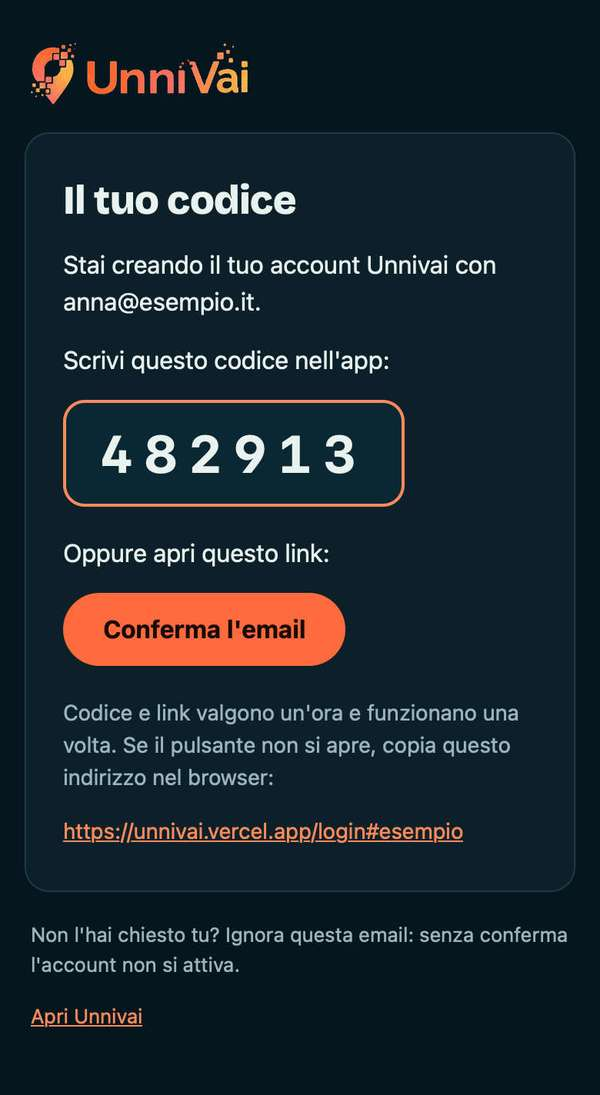
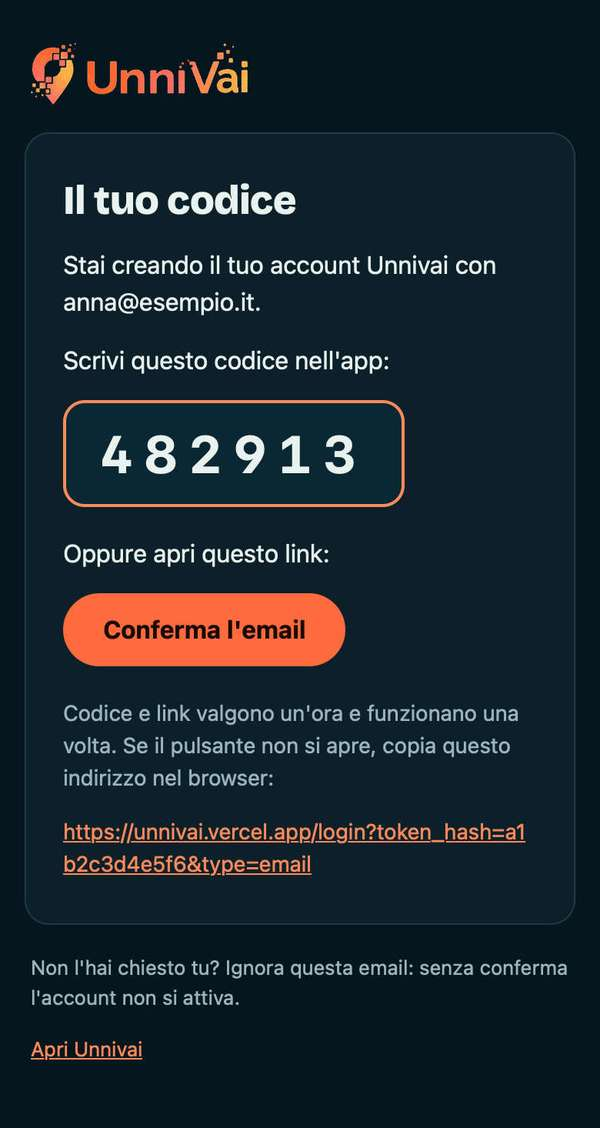
ONBOARDING-ACCESSO: dopo il rebase su LINK-DOMINIO, ?link=scaduto porta all'accesso col codice (test); report e conteggi
Claude-Session: https://claude.ai/code/session_0122qHBCR3oPfQmUgmuJDwj9

diff --git a/src/__tests__/pages/accesso1.test.jsx b/src/__tests__/pages/accesso1.test.jsx
@@ -113,6 +113,12 @@ describe('ONBOARDING-ACCESSO — si entra con email e codice', () => {
         expect(signInWithOtp).not.toHaveBeenCalled();
     });
 
+    it('LINK-DOMINIO: un link di conferma o accesso scaduto (?link=scaduto) porta al codice col messaggio chiaro', () => {
+        monta('/login?link=scaduto');
+        expect(screen.getByText(ACCESSO.LINK_SCADUTO)).toBeInTheDocument();
+        expect(screen.getByPlaceholderText('Email')).toBeInTheDocument();
+    });
+
     it('arrivando da un vecchio link scaduto: messaggio chiaro e si entra col codice', () => {
         monta('/login?recupero=1');
         expect(screen.getByText(ACCESSO.LINK_SCADUTO)).toBeInTheDocument();

diff --git a/docs/prove/2026-11-06-onboarding-accesso.md b/docs/prove/2026-11-06-onboarding-accesso.md
@@ -164,3 +164,8 @@ script `node --experimental-strip-types scripts/email/anteprime-marchio.webkit.m
 **Deploy delle due funzioni** (DOPO il merge, da una cartella su `main` aggiornato, con il «sì» di Ivano; non eseguiti):
 `supabase functions deploy lista-attesa-email --project-ref ahecpiwsdhghkndncejb --no-verify-jwt --use-api` e
 `supabase functions deploy avvisi --project-ref ahecpiwsdhghkndncejb --no-verify-jwt --use-api` (le stesse opzioni dei report EMAIL-LANCIO e AVVISI).
+
+**Rebase su LINK-DOMINIO (PR #51, già su main)**: tenute entrambe le modifiche. I link di conferma e accesso portano al sito
+(`{{ .SiteURL }}/login?token_hash={{ .TokenHash }}&type=email`, recupero `/update-password?…&type=recovery`) e li verifica l'app
+(`src/lib/linkEmail.js`, chiamato da `AuthContext`); conferma e accesso portano anche il codice di 6 cifre. `/login?link=scaduto` (link
+non valido) apre l'accesso col codice col messaggio chiaro. Suite 3493/3493, lint 0 errori, build ok, guardia 12/12 e 10/10.
